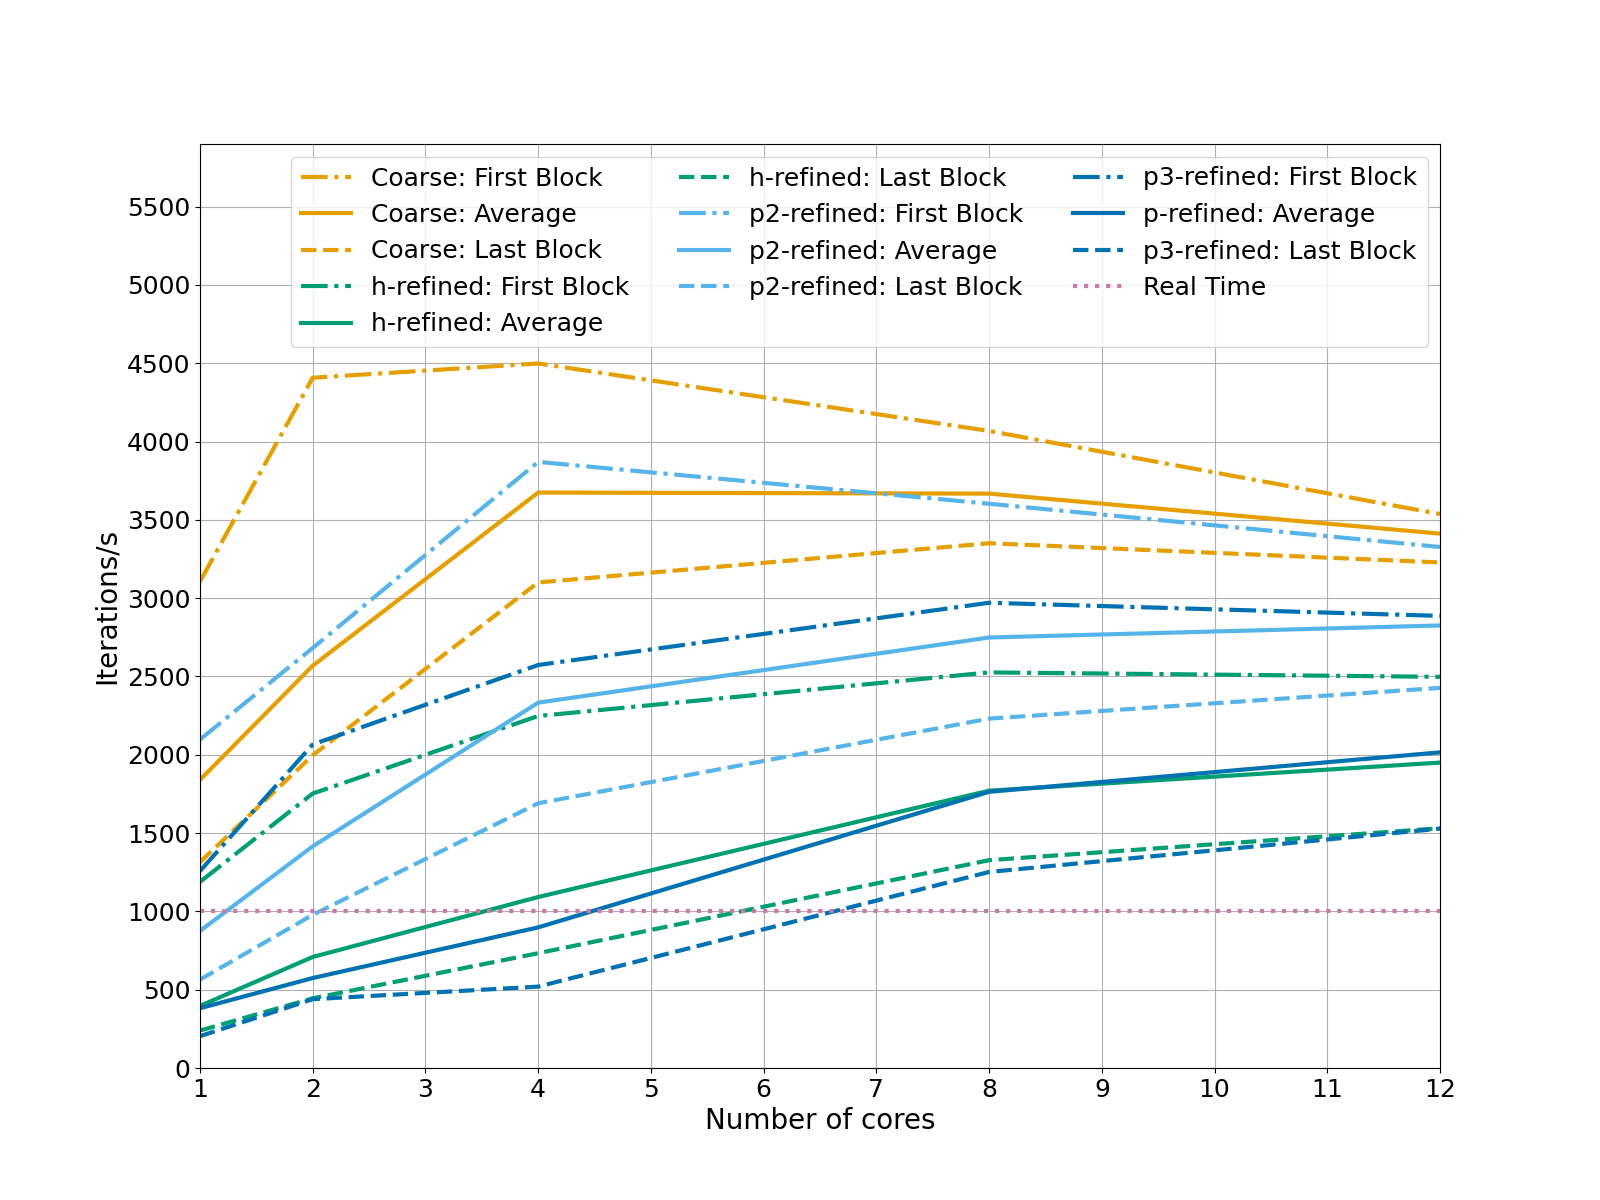
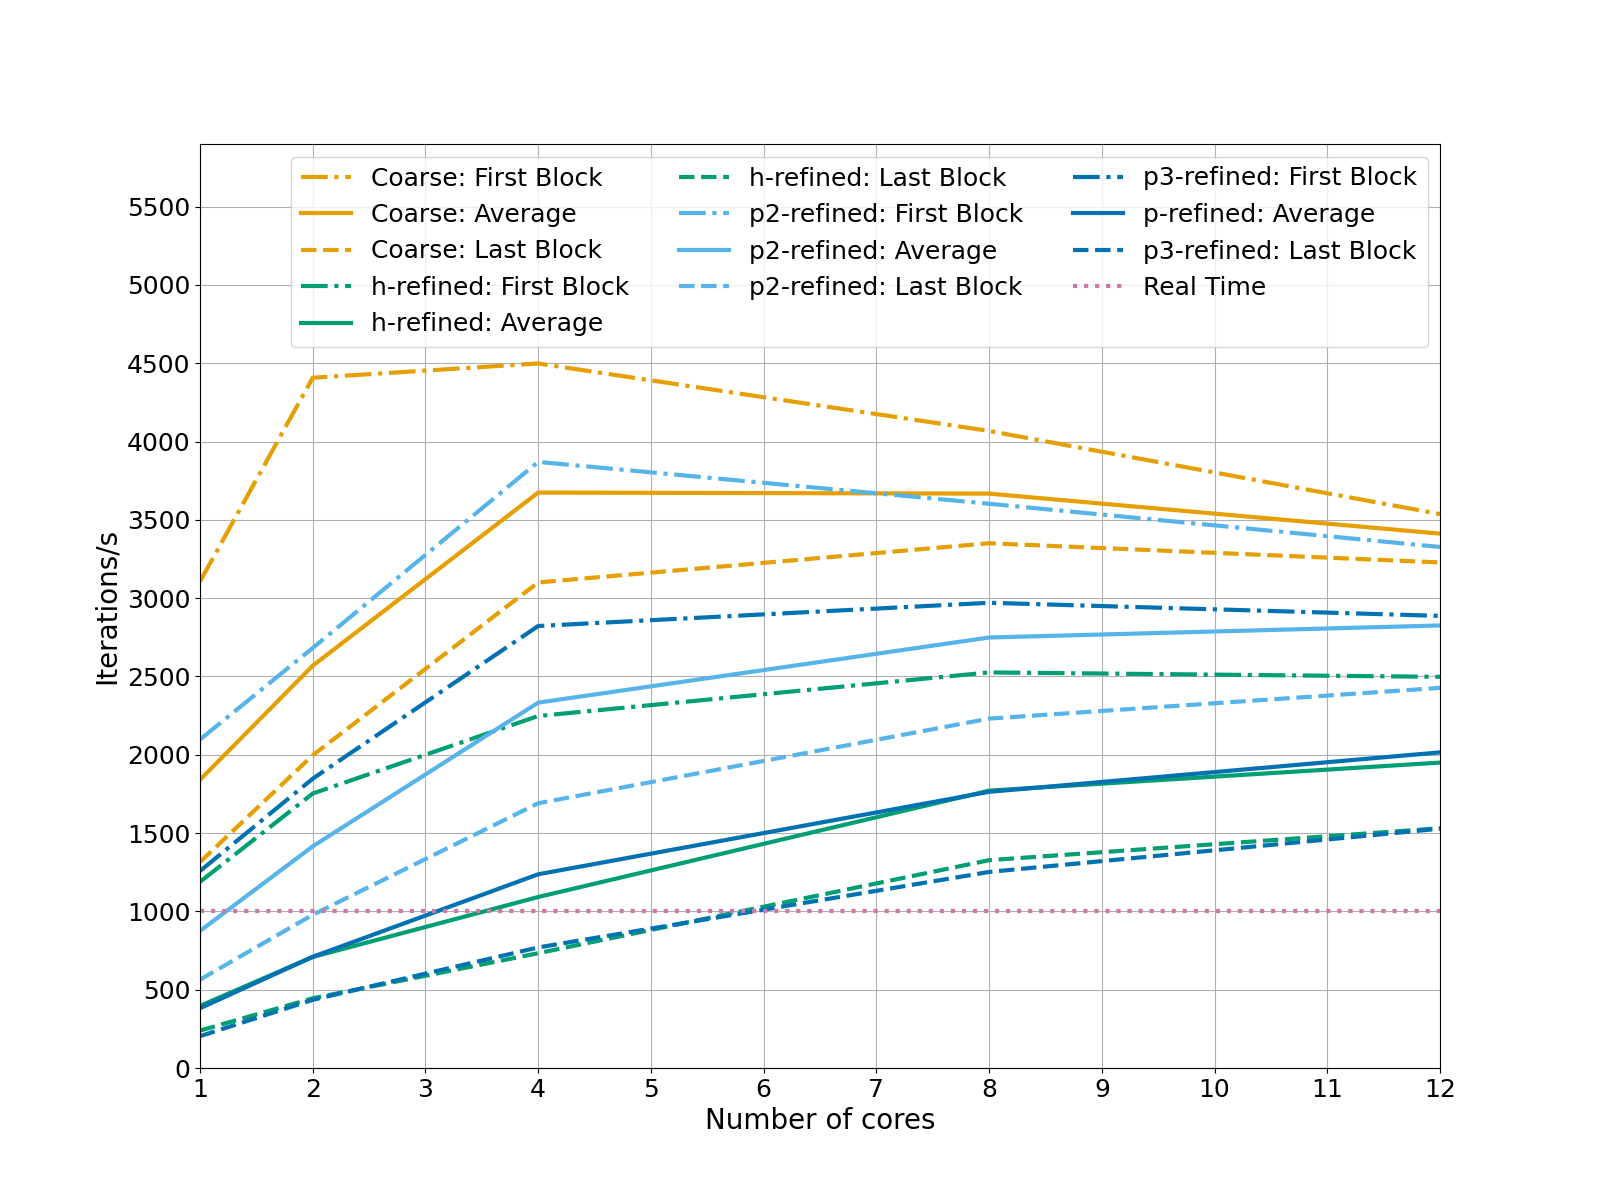
Update q_2 and q_4 data

diff --git a/performance/dwell_rook/analysis.py b/performance/dwell_rook/analysis.py
@@ -88,7 +88,7 @@ eval_percent_fine = [87.8, 79.7, 79.2, 68.7, 64.2]
 
 # P3-Refinement
 #--------------
-time_p3 = [29076.8, 19321.7, 12362.0, 6293.8, 5507.1]
+time_p3 = [29076.8, 15634.3, 8973.7, 6293.8, 5507.1]
 time_p3_0 = time_p3[0]
 ideal_strong_time_p3 = [time_p3_0, time_p3_0/2, time_p3_0/4,
         time_p3_0/8, time_p3_0/12]
@@ -98,9 +98,9 @@ efficiency_p3 = [time_p3_0/time_p3_0, time_p3_0/(time_p3[1]*2),
         time_p3_0/(time_p3[2]*4), time_p3_0/(time_p3[3]*8),
         time_p3_0/(time_p3[4]*12)]
 
-average_throughput_p3 = [381.7, 574.4, 897.8, 1763.5, 2015.4]
-first_block_throughput_p3 = [1257.6, 2065.9, 2573.2, 2970.6, 2886.9]
-last_block_throughput_p3 = [203.3, 439.4, 519.7, 1251.8, 1528.3]
+average_throughput_p3 = [381.7, 709.9, 1236.9, 1763.5, 2015.4]
+first_block_throughput_p3 = [1257.6, 1847.4, 2822.3, 2970.6, 2886.9]
+last_block_throughput_p3 = [203.3, 435.2, 769.8, 1251.8, 1528.3]
 average_throughput_p3_0 = average_throughput_p3[0]
 average_throughput_speedup_p3 = [x/average_throughput_p3_0 for x in average_throughput_p3]
 first_throughput_p3_0 = first_block_throughput_p3[0]
@@ -108,7 +108,7 @@ first_block_throughput_speedup_p3 = [x/first_throughput_p3_0 for x in first_bloc
 last_throughput_p3_0 = last_block_throughput_p3[0]
 last_block_throughput_speedup_p3 = [x/last_throughput_p3_0 for x in last_block_throughput_p3]
 
-eval_percent_fine = [94.0, 91.9, 88.0, 76.5, 71.6]
+eval_percent_fine = [94.0, 91.9, 86.8, 76.5, 71.6]
 
 ######################
 # PLOT PARAMETERS
